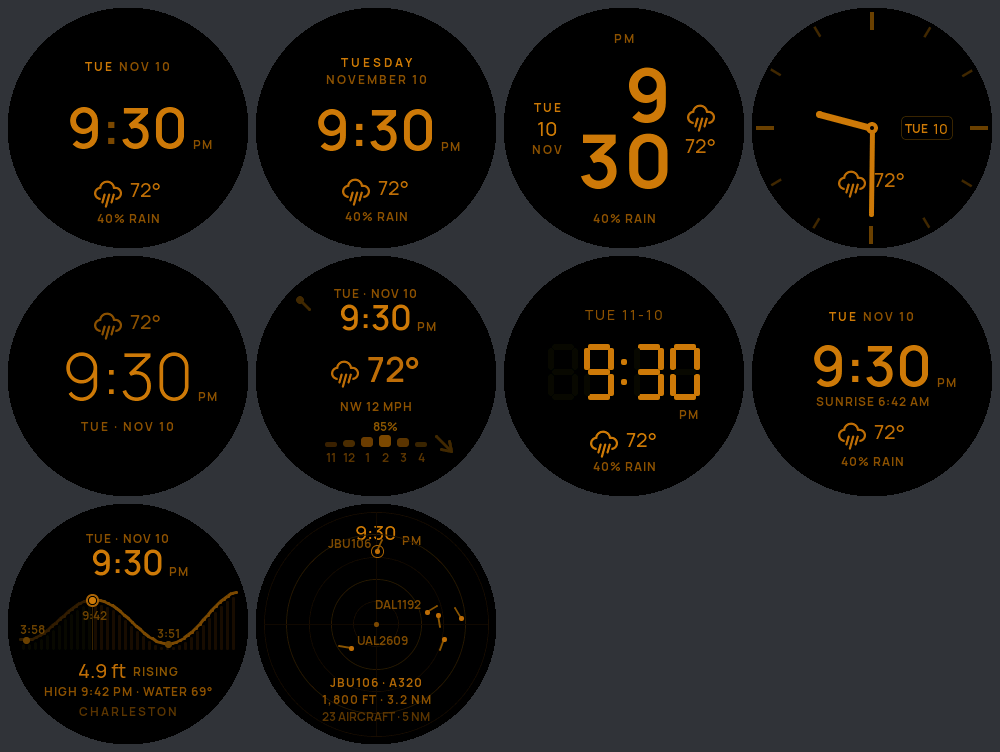
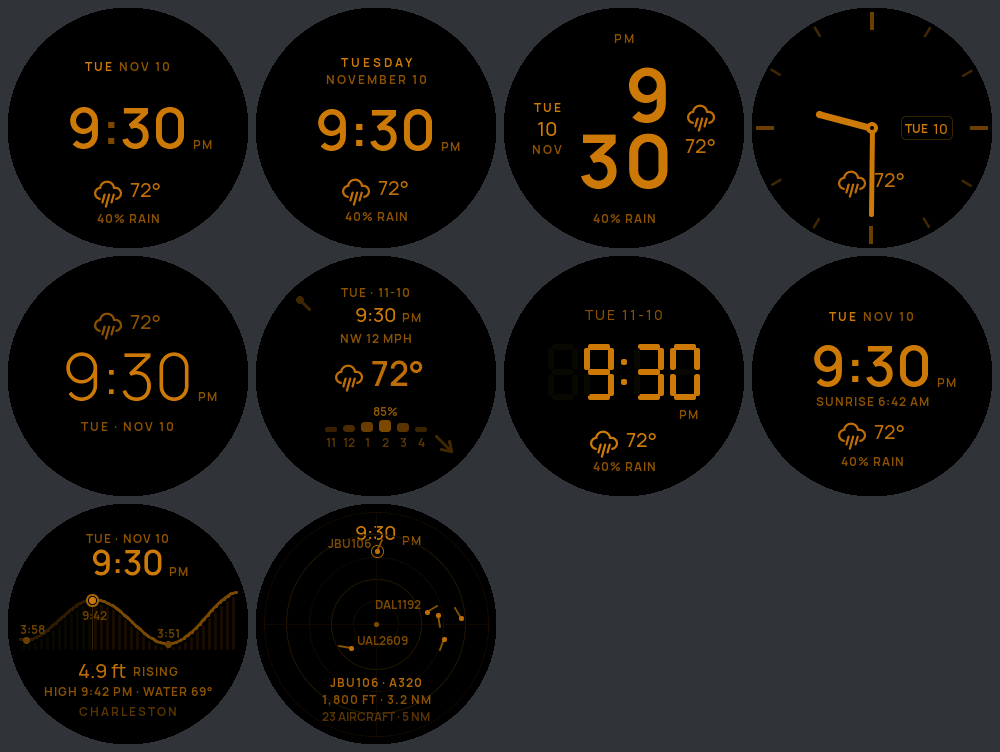
Forecast face: time on top, wind line under it, bars raised clear of the wind arrow
Smaller time with AM/PM on its baseline, short date (TUE · 11-10), weather
row centred, hourly bars moved up. Adds FaceDef::ampmInline. Renders updated.

Changed region(s): [[0.31, 0.367, 0.434, 0.6117]]

diff --git a/src/ui/faces/face_forecast.cpp b/src/ui/faces/face_forecast.cpp
@@ -2,7 +2,7 @@
 
 namespace ui {
 
-// Weather in the centre, small time on top, hourly rain (or temperature) bars below, and a compass ring
+// Weather in the centre, small time on top, the wind line, weather, then hourly rain (or temperature) bars, and a compass ring
 // with a wind line from the side the wind comes from to an arrowhead where it blows (hidden when calm).
 static lv_obj_t *compRing, *compTick[12], *compCard[4], *windNeedle, *windTail, *windDot;
 static lv_point_precise_t compPts[12][2], needlePts[5], tailPts[2];  // must outlive the line objects
@@ -11,7 +11,7 @@ static char windStr[16] = "", feelsStr[16] = "";
 static constexpr float COMP_R = 111.0f;
 static constexpr int WIND_NIGHT = 35;           // nightC() brightness: the arrow stays, dim, on the quiet night face
 static lv_obj_t *bars[RAIN_BARS], *barLbl[RAIN_BARS], *barTemp[RAIN_BARS];
-static constexpr int BAR_W = 12, BAR_PITCH = 18, BAR_MAX = 24, BAR_BASE = 191;  // BAR_BASE: y of the bars' bottom edge
+static constexpr int BAR_W = 12, BAR_PITCH = 18, BAR_MAX = 24, BAR_BASE = 176;  // BAR_BASE: y of the bars' bottom edge
 
 // ---- Compass ring: wind direction needle ----
 
@@ -196,13 +196,23 @@ static void buildBars() {
 
 static void build() {
   buildCompass();
-  mkDateRow(-83, 5, 1);
-  mkTime(-59, &manrope_34);
-  mkWeather(0, -6, false, 2, &manrope_34, &weather_icons);  // high/low stacked to the right
-  mkDetail(0, 30);
+  mkDateRow(-84, 5, 1);
+  mkTime(-62, &manrope_20);
+  mkWeather(4, -2, false, 2, &manrope_34, &weather_icons);  // high/low stacked to the right; x=4 centres the ink (glyph padding leaves the row ~4 px left)
+  mkDetail(0, -38);
   buildBars();
   lv_obj_set_width(detailBox, 200);  // room for "NW 12 MPH · FEELS 65°"
-  mkOffline(-66, -59);
+  mkOffline(-66, -62);
+}
+
+// "TUE · 11-10" (month then day, or day first per the date-format option): short, the date row is narrow here.
+static void date(const DateParts &d) {
+  char line[12], wd[16];
+  int mon = d.t.tm_mon + 1, day = d.t.tm_mday;
+  snprintf(line, sizeof(line), "%d-%d", opt.dateFmt == 1 ? day : mon, opt.dateFmt == 1 ? mon : day);
+  snprintf(wd, sizeof(wd), "%s \xC2\xB7", d.wday);
+  setText(dayLabel, wd);
+  setText(dateLabel, line);
 }
 
 static void palette(Palette &p, const Theme &) { p.day = p.sub; }
@@ -271,7 +281,7 @@ static FaceDef make() {
   f.name = "Forecast";
   f.ring = K_CUSTOM;
   f.build = build;
-  f.date = dateQuietLine;
+  f.date = date;
   f.palette = palette;
   f.paint = paint;
   f.paintRing = paintRing;
@@ -281,6 +291,7 @@ static FaceDef make() {
   f.detailPrefix = detailPrefix;
   f.detailOwn = true;
   f.ringAtNight = true;  // the wind arrow stays, dim; the rest of the compass fades to black
+  f.ampmInline = true;   // the small time: AM/PM level with the digits
   f.msgInDetail = true;  // the big temperature has no room for "ZIP not found"
   return f;
 }

diff --git a/src/ui/transitions.cpp b/src/ui/transitions.cpp
@@ -16,7 +16,14 @@ void transitionsReset() { memset(swaps, 0, sizeof(swaps)); }
 void placeAmpm() {
   if (!floatAmpm || !timeM) return;
   lv_obj_update_layout(lv_obj_get_parent(timeM));  // digits changed width: re-place AM/PM beside them
-  if (ampmLabel) lv_obj_align_to(ampmLabel, timeM, LV_ALIGN_OUT_RIGHT_BOTTOM, 5, 3);
+  if (ampmLabel) {
+    int dy = 3;  // hangs a little below the digits
+    if (face().ampmInline) {  // share the digits' baseline: bottoms differ by the fonts' descent
+      const lv_font_t *df = lv_obj_get_style_text_font(timeM, LV_PART_MAIN), *af = lv_obj_get_style_text_font(ampmLabel, LV_PART_MAIN);
+      dy = af->base_line - df->base_line;
+    }
+    lv_obj_align_to(ampmLabel, timeM, LV_ALIGN_OUT_RIGHT_BOTTOM, 5, dy);
+  }
   if (secLabel) lv_obj_align_to(secLabel, timeM, LV_ALIGN_OUT_RIGHT_TOP, 5, 0);
 }
 

diff --git a/src/ui/ui_internal.h b/src/ui/ui_internal.h
@@ -175,6 +175,7 @@ struct FaceDef {
   bool msgInDetail = false;   // a weather message with no icon ("ZIP not found") goes on the detail line
   bool fullDate = false;      // "TUESDAY" / "NOVEMBER" instead of "TUE" / "NOV"
   bool ringAtNight = false;   // the ring stays (dimmed) at night instead of fading out
+  bool ampmInline = false;    // AM/PM sits level with the time instead of hanging a few px below it
 };
 extern const FaceDef *const FACES[];  // in `enum Face` order
 const FaceDef &face();                // the active face (faces.cpp)

diff --git a/src/ui/ui.h b/src/ui/ui.h
@@ -22,7 +22,7 @@ enum Face {
   FACE_STACKED,   // hours over minutes, date and weather at the sides
   FACE_ANALOG,    // hands, date window, weather
   FACE_ZEN,       // light digits, one orbiting dot
-  FACE_FORECAST,  // weather in the centre, hourly rain bars
+  FACE_FORECAST,  // weather in the centre, hourly rain bars below
   FACE_RETRO,     // seven-segment LCD
   FACE_DAYLIGHT,  // 24 h dial with the sunrise-to-sunset arc
   FACE_TIDE,      // tide chart (sea level, 6 h back to 12 h ahead) with the next high / low

diff --git a/docs/FACES.md b/docs/FACES.md
@@ -19,7 +19,7 @@ Each face is one file, `src/ui/faces/face_<name>.cpp`, that defines a `FaceDef` 
 | `onText(label)` | A label's text was just set |
 | `onStale(opa, ms)` | Dim face-private weather objects |
 | `detailPrefix()` | Text shown before the detail line ("NW 12 MPH") |
-| `detailOwn`, `msgInDetail`, `fullDate`, `ringAtNight` | Flags: the prefix is the whole detail line; weather messages without an icon go on the detail line; long day and month names; ring stays (dimmed) at night |
+| `detailOwn`, `msgInDetail`, `fullDate`, `ringAtNight`, `ampmInline` | Flags: the prefix is the whole detail line; weather messages without an icon go on the detail line; long day and month names; ring stays (dimmed) at night; AM/PM on the same baseline as the time |
 
 ### Rules
 
@@ -58,7 +58,7 @@ Each face is one file, `src/ui/faces/face_<name>.cpp`, that defines a `FaceDef` 
 
 **Polished (default):** date at y −62, time in the 56 pt font, weather row at +62 (icon + temperature + a vertical range bar: a gradient `rangeTrack` with `rangeDot` at the current temperature between today's low and high, numbers at the ends), and the detail line at +90. AM/PM is a separate label aligned to the right of the minutes (`placeAmpm()`), so it doesn't push the digits off-centre. The dot glides (`rangeFrac` animation) when the temperature changes. **Why a vertical bar:** a horizontal bar plus an arc at the bottom of the ring was tried and was too crowded on a round face.
 
-**Forecast:** weather in the centre, small time on top, and a compass ring (`K_CUSTOM`) with a needle from the wind-from bearing (`ui_set_wind()`; hidden when calm). The detail line carries the wind readout ("NW 12 MPH · FEELS 65°", `detailPrefix`, `detailOwn`). Below that are hourly rain bars, or temperature bars with values when no hour reaches 30 %. There's no seconds ring, so its colon pulses each second (solid at night).
+**Forecast:** a smaller time and a short date ("TUE · 11-10") on top, the wind line under it, weather in the centre, hourly rain or temperature bars below, and a compass ring (`K_CUSTOM`) with a needle from the wind-from bearing (`ui_set_wind()`; hidden when calm). The detail line carries the wind readout ("NW 12 MPH · FEELS 65°", `detailPrefix`, `detailOwn`). The bars sit raised, clear of the wind arrow, and show rain chance, or temperature with values when no hour reaches 30 %. There's no seconds ring, so its colon pulses each second (solid at night).
 
 **Daylight:** a 24-hour dial with the sunrise-to-sunset arc and a sun dot at "now" (from `ui_set_weather_extra()` sunrise / sunset).
 
